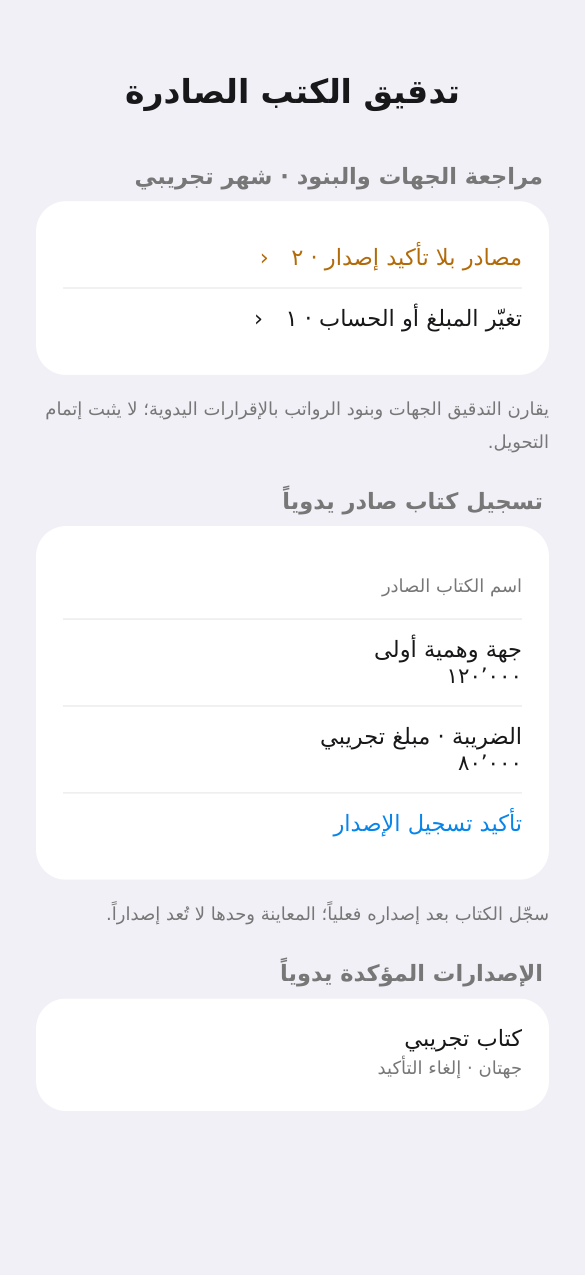
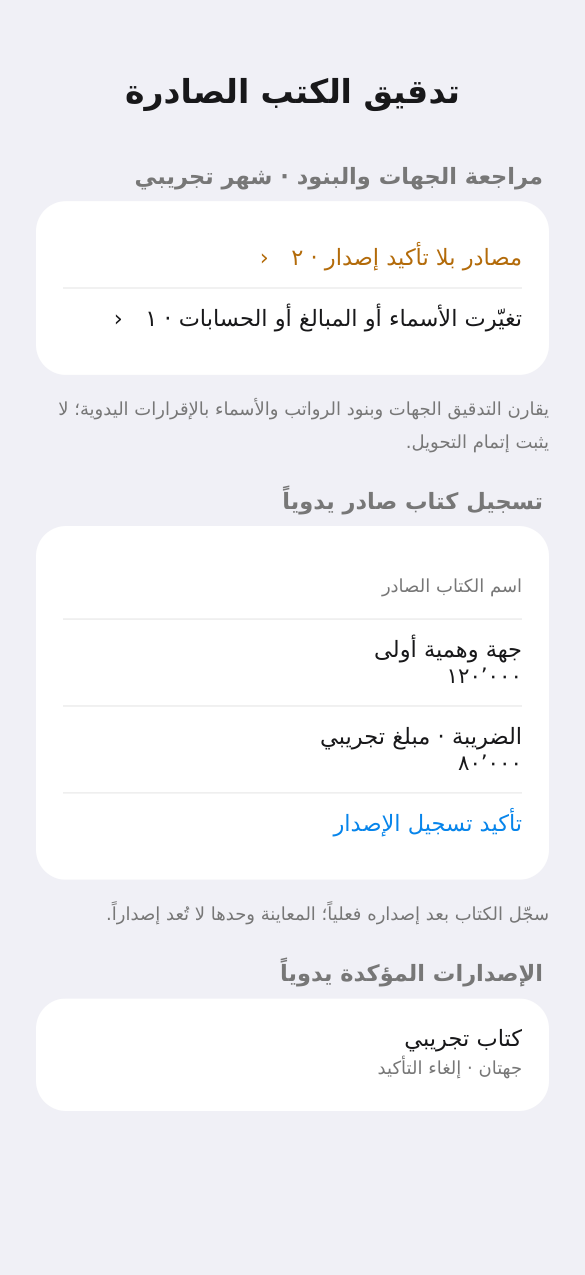
Detect changes in confirmed transfer name lists
Store a fingerprint of confirmed employee rows and compare it with the current data in a cancellable background task, including cash lists. Preserve old confirmations and flag those without a fingerprint.

diff --git a/SalaryApp/TransferIssuance.swift b/SalaryApp/TransferIssuance.swift
@@ -11,6 +11,8 @@ nonisolated struct TransferIssuedLine: Codable, Equatable, Identifiable {
     let branch: String
     let swift: String
     let category: String
+    /// اختيارية حتى تبقى الإقرارات المحفوظة قبل إضافة فحص الأسماء قابلة للقراءة.
+    var detailHash: String? = nil
 
     init(_ entity: TransferEntity) {
         id = entity.id
@@ -81,7 +83,11 @@ nonisolated enum TransferIssuance {
         let byRecorded = Dictionary(grouping: recorded, by: \.id)
         return Audit(
             missing: current.filter { byRecorded[$0.id] == nil },
-            changed: current.filter { line in byRecorded[line.id]?.contains(where: { $0 != line }) == true },
+            changed: current.filter { line in byRecorded[line.id]?.contains(where: { old in
+                var previous = old; previous.detailHash = nil
+                var now = line; now.detailHash = nil
+                return previous != now || (old.detailHash != nil && line.detailHash != nil && old.detailHash != line.detailHash)
+            }) == true },
             absent: recorded.filter { byCurrent[$0.id] == nil },
             repeated: current.filter { (byRecorded[$0.id]?.count ?? 0) > 1 })
     }
@@ -106,16 +112,84 @@ struct TransferIssuanceView: View {
     @State private var confirm = false
     @State private var retract: TransferIssuedRecord?
     @State private var error: String?
+    @State private var checkingDetails = false
+    @State private var detailError: String?
+    @State private var checkedHashes: [String: String] = [:]
+    @State private var detailsChecked = false
+    @State private var confirmationTask: Task<Void, Never>?
 
     private var current: Bool {
         let record = months.first { $0.name == month }
         return record != nil && currentAccounts == accounts && currentCategories == categories && currentLinks == links &&
             "\(String(describing: record?.persistentModelID))|\(record?.name ?? "")|\(record?.importedAt.timeIntervalSince1970 ?? 0)" == sourceKey
     }
+    private var cashID: String { "payroll|\(month)|cashSalary" }
     private var lines: [TransferIssuedLine] {
-        entities.filter { $0.group.total.isFinite && $0.group.total > 0 }.map(TransferIssuedLine.init) + TransferIssuance.payrollLines(figures)
+        (entities.filter { $0.group.total.isFinite && $0.group.total > 0 }.map(TransferIssuedLine.init) + TransferIssuance.payrollLines(figures)).map { value in
+            var line = value; line.detailHash = checkedHashes[line.id]; return line
+        }
     }
     private var ledger: TransferIssuance.Ledger? { try? TransferIssuance.decode(stored) }
+    private var nameListIDs: Set<String> {
+        Set(entities.filter { $0.payrollRecipient == nil }.map(\.id)).union([cashID])
+    }
+    private var hasOlderConfirmationsWithoutNames: Bool {
+        guard let ledger else { return false }
+        return ledger.records.filter { $0.month == month }.flatMap(\.lines)
+            .contains { $0.detailHash == nil && nameListIDs.contains($0.id) }
+    }
+    private func fetchDetails(_ ids: Set<String>) async throws -> [String: String] {
+        let container = SharedModel.container
+        let snapshot = entities, selectedMonth = month, cash = cashID, amount = figures.payrollCash
+        let work = Task.detached(priority: .utility) {
+            try await TransferIssuedDetails.load(entities: snapshot, ids: ids, month: selectedMonth,
+                cashID: cash, cashAmount: amount, container: container)
+        }
+        return try await withTaskCancellationHandler { try await work.value } onCancel: { work.cancel() }
+    }
+    private func refreshDetails() async {
+        guard current, let ledger else { return }
+        let ids = Set(ledger.records.filter { $0.month == month }.flatMap(\.lines)
+            .filter { $0.detailHash != nil }.map(\.id)).intersection(nameListIDs)
+        detailsChecked = false; checkedHashes = [:]; detailError = nil
+        guard !ids.isEmpty else { detailsChecked = true; return }
+        checkingDetails = true
+        defer { checkingDetails = false }
+        do {
+            let hashes = try await fetchDetails(ids)
+            guard !Task.isCancelled, current else { return }
+            checkedHashes = hashes
+            if !ids.isSubset(of: Set(hashes.keys)) {
+                detailError = tr("تعذر فحص بعض قوائم الأسماء؛ راجع المصادر الحالية.", "Some name lists could not be checked; review current sources.")
+            }
+            detailsChecked = true
+        } catch is CancellationError { return }
+        catch { guard !Task.isCancelled else { return }; detailError = error.localizedDescription }
+    }
+    private func confirmIssued() {
+        guard current, confirmationTask == nil, !checkingDetails else { return }
+        let ids = selected, title = book.trimmingCharacters(in: .whitespacesAndNewlines), storage = stored
+        let chosen = lines.filter { ids.contains($0.id) }
+        guard !title.isEmpty, !chosen.isEmpty, Set(chosen.map(\.id)).count == chosen.count else { return }
+        confirmationTask = Task {
+            defer { confirmationTask = nil }
+            do {
+                let required = ids.intersection(nameListIDs)
+                let hashes = try await fetchDetails(required)
+                guard !Task.isCancelled, current, storage == stored, ids == selected,
+                      required.isSubset(of: Set(hashes.keys)), let ledger else {
+                    if !Task.isCancelled { error = tr("تغيرت البيانات أثناء تدقيق الأسماء؛ أعد المحاولة.", "Data changed during name-list checking; try again.") }
+                    return
+                }
+                let verified = chosen.map { value -> TransferIssuedLine in
+                    var line = value; line.detailHash = hashes[line.id]; return line
+                }
+                let record = TransferIssuedRecord(id: UUID(), month: month, book: title, confirmedAt: .now, lines: verified)
+                if save(ledger.records + [record]) { selected = []; book = "" }
+            } catch is CancellationError { return }
+            catch { self.error = error.localizedDescription }
+        }
+    }
     @discardableResult private func save(_ records: [TransferIssuedRecord]) -> Bool {
         guard current, ledger != nil, !BackupManager.shared.isWorking, !ImportCenter.shared.isBusy, !StaffImportState.shared.isImporting else {
             error = tr("تغيرت البيانات أو توجد عملية استيراد أو نسخ جارية. أعد فتح الصفحة وحاول مجدداً.", "Data changed or another operation is in progress. Reopen this page and try again.")
@@ -135,10 +209,15 @@ struct TransferIssuanceView: View {
                 let audit = TransferIssuance.audit(current: lines, records: ledger.records, month: month)
                 Section(tr("مراجعة الجهات والبنود · \(month)", "Entity and item review · \(month)")) {
                     issueGroup(tr("مصادر بلا تأكيد إصدار", "Items without issuance confirmation"), audit.missing, .orange)
-                    issueGroup(tr("تغيّر المبلغ أو العدد أو الحساب بعد التأكيد", "Amount, count or account changed after confirmation"), audit.changed, .red)
+                    issueGroup(tr("تغيّرت الأسماء أو المبالغ أو الحسابات بعد التأكيد", "Names, amounts or accounts changed after confirmation"), audit.changed, .red)
                     issueGroup(tr("مصادر مؤكدة غير متاحة في بيانات الشهر", "Confirmed items unavailable in current data"), audit.absent, .orange)
                     issueGroup(tr("جهات مؤكدة في أكثر من كتاب", "Entities confirmed in multiple letters"), audit.repeated, .red)
-                    if audit.missing.isEmpty && audit.changed.isEmpty && audit.absent.isEmpty && audit.repeated.isEmpty {
+                    if checkingDetails { ProgressView(tr("تدقيق قوائم الأسماء", "Checking name lists")) }
+                    if let detailError { Text(detailError).foregroundStyle(.orange) }
+                    if hasOlderConfirmationsWithoutNames {
+                        Text(tr("بعض الإقرارات السابقة لم تحفظ بصمة قائمة الأسماء؛ راجع كتابها وأعد تأكيده عند الحاجة.", "Some older confirmations have no name-list fingerprint; review and reconfirm if needed.")).font(.footnote).foregroundStyle(.orange)
+                    }
+                    if detailsChecked && detailError == nil && audit.missing.isEmpty && audit.changed.isEmpty && audit.absent.isEmpty && audit.repeated.isEmpty {
                         Text(tr("لا توجد اختلافات في الإقرارات المسجلة.", "No differences in recorded confirmations.")).foregroundStyle(.secondary)
                     }
                 } footer: { Text(tr("يقارن التدقيق الجهات وبنود الكتب بإقراراتك اليدوية. لا يقرأ الكتب الصادرة أو يثبت التحويل. قد يظهر بند الكاش غير متاح إذا تعذر تحديد طريقة الدفع.", "This compares entities and letter items with manual confirmations. It does not read issued letters or prove a transfer. Cash may be unavailable if payment methods cannot be determined.")) }
@@ -153,7 +232,8 @@ struct TransferIssuanceView: View {
                         }
                     }
                     Button(tr("تأكيد تسجيل الإصدار", "Confirm issued letter")) { confirm = true }
-                        .disabled(!current || selected.isEmpty || book.trimmingCharacters(in: .whitespacesAndNewlines).isEmpty)
+                        .disabled(!current || checkingDetails || confirmationTask != nil || selected.isEmpty || book.trimmingCharacters(in: .whitespacesAndNewlines).isEmpty)
+                    if confirmationTask != nil { ProgressView(tr("تدقيق قوائم الأسماء", "Checking name lists")) }
                 } footer: { Text(tr("بعد إصدار الكتاب فعلياً، اختر الجهات أو بنود الرواتب التي يتضمنها. المعاينة وحدها لا تُعد إصداراً.", "After issuing the letter, select the entities or payroll items it contains. A preview is not issuance.")) }
                 let records = ledger.records.filter { $0.month == month }.sorted { $0.confirmedAt > $1.confirmedAt }
                 if !records.isEmpty {
@@ -176,14 +256,10 @@ struct TransferIssuanceView: View {
         .navigationTitle(tr("تدقيق الكتب الصادرة", "Issued letter review"))
         .alert(tr("تأكيد إصدار الكتاب؟", "Confirm letter issued?"), isPresented: $confirm) {
             Button(tr("تأكيد الإصدار", "Confirm issuance")) {
-                guard let ledger, current else { return }
-                let chosen = lines.filter { selected.contains($0.id) }
-                guard !chosen.isEmpty, Set(chosen.map(\.id)).count == chosen.count else { return }
-                let record = TransferIssuedRecord(id: UUID(), month: month, book: book.trimmingCharacters(in: .whitespacesAndNewlines), confirmedAt: .now, lines: chosen)
-                if save(ledger.records + [record]) { selected = []; book = "" }
+                confirmIssued()
             }
             Button(tr("إلغاء", "Cancel"), role: .cancel) { }
-        } message: { Text(tr("أؤكد أنني أصدرت الكتاب فعلياً وأن الجهات والبنود المختارة وردت فيه بالمبالغ المعروضة. لا يتحقق التطبيق من الكتاب أو المصرف بهذا الإقرار.", "I confirm that I issued this letter and it contains the selected entities and items with their amounts. This confirmation does not verify the document or the bank.")) }
+        } message: { Text(tr("أؤكد أنني أصدرت الكتاب فعلياً وأن الجهات والبنود المختارة وردت فيه بالمبالغ والأسماء الصحيحة. لا يتحقق التطبيق من الكتاب أو المصرف بهذا الإقرار.", "I confirm that I issued this letter and it contains the selected entities and items with their correct amounts and names. This confirmation does not verify the document or the bank.")) }
         .alert(tr("إلغاء تأكيد الإصدار؟", "Retract issuance confirmation?"), isPresented: Binding(get: { retract != nil }, set: { if !$0 { retract = nil } })) {
             Button(tr("إلغاء التأكيد", "Retract"), role: .destructive) {
                 if let id = retract?.id, let ledger { save(ledger.records.filter { $0.id != id }) }
@@ -191,6 +267,8 @@ struct TransferIssuanceView: View {
             }
             Button(tr("رجوع", "Back"), role: .cancel) { retract = nil }
         } message: { Text(tr("يُحذف الإقرار فقط، ولا يُحذف الكتاب أو بيانات الشهر.", "Only the confirmation is removed; the letter and monthly data are unchanged.")) }
+        .task(id: stored) { await refreshDetails() }
+        .onDisappear { confirmationTask?.cancel(); confirmationTask = nil }
     }
     @ViewBuilder private func issueGroup(_ title: String, _ values: [TransferIssuedLine], _ color: Color) -> some View {
         if !values.isEmpty {

diff --git a/SalaryApp/TransferIssuedDetails.swift b/SalaryApp/TransferIssuedDetails.swift
@@ -1,0 +1,35 @@
+import Foundation
+import SwiftData
+import CryptoKit
+
+/// بصمة للصفوف فقط، مع الاحتفاظ بالتكرار، ولا تخزّن أسماء الموظفين في سجل الإقرارات.
+nonisolated enum TransferIssuedDetails {
+    enum Failure: LocalizedError {
+        case mismatch
+        var errorDescription: String? { tr("تعذّر مطابقة قائمة الأسماء مع بيانات الشهر؛ راجع المصدر قبل التأكيد.", "Could not reconcile the name list with the month data; review the source before confirming.") }
+    }
+    static func fingerprint(_ rows: [[String]]) throws -> String {
+        let values = try rows.map { row in String(decoding: try JSONEncoder().encode(row), as: UTF8.self) }.sorted()
+        let data = try JSONEncoder().encode(values)
+        return Data(SHA256.hash(data: data)).base64EncodedString()
+    }
+    static func load(entities: [TransferEntity], ids: Set<String>, month: String,
+                     cashID: String, cashAmount: Double?, container: ModelContainer) async throws -> [String: String] {
+        let engine = ReportEngine(modelContainer: container)
+        var results: [String: String] = [:]
+        for entity in entities where ids.contains(entity.id) && entity.payrollRecipient == nil {
+            try Task.checkCancellation()
+            let rows = try await engine.rows(for: entity.group)
+            _ = try TransferIndividualPlan(kind: .ramadi, group: entity.group, rows: rows, missingAmounts: entity.missingAmounts)
+            let details = rows.map { [$0.name, $0.rank, $0.workplace, String(format: "%.0f", locale: Locale(identifier: "en_US_POSIX"), $0.amount)] }
+            results[entity.id] = try fingerprint(details)
+        }
+        if ids.contains(cashID) {
+            guard let cashAmount else { throw Failure.mismatch }
+            let list = try await TransferCashListEngine(modelContainer: container).list(month: month)
+            guard list.month == month, list.total == cashAmount else { throw Failure.mismatch }
+            results[cashID] = try fingerprint(list.employees.map { [$0.name, $0.rank, $0.workplace, String(format: "%.0f", locale: Locale(identifier: "en_US_POSIX"), $0.amount)] })
+        }
+        return results
+    }
+}

diff --git a/SalaryApp/TransferFilesSelfTest.swift b/SalaryApp/TransferFilesSelfTest.swift
@@ -52,6 +52,16 @@ import CryptoKit
         let group = ReportGroup(kind: .deductions, month: "تشرين الاول 2026", title: "جهة وهمية", count: 1, total: 1200, byEntity: false)
         let item = TransferEntity(group: group, account: account, category: .rafidain, missingAmounts: 0)
         let issuedLine = TransferIssuedLine(item)
+        let namesA = [["موظف وهمي أ", "رتبة", "قسم", "600"], ["موظف وهمي ب", "رتبة", "قسم", "600"]]
+        let namesB = [["موظف وهمي أ", "رتبة", "قسم", "600"], ["موظف وهمي ج", "رتبة", "قسم", "600"]]
+        let hashA = try TransferIssuedDetails.fingerprint(namesA)
+        try check(hashA == TransferIssuedDetails.fingerprint(namesA.reversed().map { $0 }), "name fingerprint must ignore order")
+        try check(hashA != TransferIssuedDetails.fingerprint(namesB), "name substitution must change fingerprint")
+        var namedLine = issuedLine; namedLine.detailHash = hashA
+        var changedNames = issuedLine; changedNames.detailHash = try TransferIssuedDetails.fingerprint(namesB)
+        let namedRecord = TransferIssuedRecord(id: UUID(), month: group.month, book: "كتاب وهمي", confirmedAt: .now, lines: [namedLine])
+        try check(TransferIssuance.audit(current: [changedNames], records: [namedRecord], month: group.month).changed.count == 1, "changed names after confirmation")
+        try check(TransferIssuance.audit(current: [issuedLine], records: [namedRecord], month: group.month).changed.isEmpty, "unread name list must not be a false mismatch")
         let issuedRecord = TransferIssuedRecord(id: UUID(), month: group.month, book: "كتاب وهمي", confirmedAt: .now, lines: [issuedLine])
         let ledgerBytes = try JSONEncoder().encode(TransferIssuance.Ledger(records: [issuedRecord]))
         let restoredLedger = try TransferIssuance.decode(ledgerBytes)

diff --git a/AGENTS.md b/AGENTS.md
@@ -184,7 +184,7 @@
 - في معاينات الكتب المنفردة تُراجع قيود الجهة مع مجموعها وعدد أشخاصها، ويظهر تنبيه إذا اختلف العدد عن الشهر السابق المباشر حين تتوفر استقطاعاته؛ تغير بيانات الشهر السابق أثناء التحضير يوقف المعاينة. تنبيهات الجهات بلا كتب ومطابقة محتوى PDF النهائية لم تكتمل بعد.
 - `TransferArchiveCoverage` يعرض جهات فرع الأنبار بلا ملف موجود في أرشيف الشهر مرتبط باسم الجهة، ويذكر أن ذلك لا يثبت عدم صدور الكتاب أو صحة مبلغه. فشل قراءة الأرشيف يظهر منفصلاً؛ لا تُعامل بيانات الفهرس على أنها إثبات لإصدار كتاب التحويل أو مطابقته.
 - `TransferDraftCoverage` يحتفظ في الذاكرة فقط بالجهات التي جُهزت لها معاينات للجلسة، وينبه إلى الجهات المصنفة دون معاينة وإلى المصدر الذي ظهر في أكثر من نوع كتاب. السجل مرتبط بلقطة الشهر والحسابات والتخصيص والمراجع ويُحذف عند تغيرها؛ لا يدل على إصدار كتاب ولا يدخل في النسخ الاحتياطية.
-- `TransferIssuance` يحفظ إقراراً يدوياً صريحاً بعد إصدار كتاب خارج التطبيق، مع لقطة جهاته ومبالغها وعددها وحساباتها وبنود الرواتب المنفردة، ويقارنها ببيانات الشهر وينبه للمصادر دون إقرار والتغير والتكرار والحذف. يُفصل بندا الضريبة والحماية الاجتماعية وبندا ضمان العقود كي يُكتشف تغير كل جزء؛ قد يظهر الكاش غير متاح عند تعذّر تحديد طريقة الدفع. يدخل السجل النسخة الاحتياطية؛ لا يفحص محتوى الكتاب الصادر أو يؤكد استلام المصرف، ولا يحوّل المعاينة إلى إصدار. لا يتتبع السجل أسماء الأفراد المؤكدين سابقاً؛ وإلغاء الإقرار لا يحذف الكتاب. لم يُختبر المسار على الآيفون.
+- `TransferIssuance` يحفظ إقراراً يدوياً صريحاً بعد إصدار كتاب خارج التطبيق، مع لقطة جهاته ومبالغها وعددها وحساباتها وبنود الرواتب المنفردة، ويقارنها ببيانات الشهر وينبه للمصادر دون إقرار والتغير والتكرار والحذف. تفحص `TransferIssuedDetails` في الخلفية بصمة الأسماء والرتب ومواقع العمل ومبالغ القيود أو قائمة الكاش عند التأكيد وعند فتح التدقيق، مع حفظ البصمة لا الأسماء؛ الإقرارات القديمة دون بصمة تظهر كمحتاجة مراجعة. يُفصل بندا الضريبة والحماية الاجتماعية وبندا ضمان العقود كي يُكتشف تغير كل جزء؛ قد يظهر الكاش غير متاح عند تعذّر تحديد طريقة الدفع. يدخل السجل النسخة الاحتياطية؛ لا يفحص محتوى الكتاب الصادر أو يؤكد استلام المصرف، ولا يحوّل المعاينة إلى إصدار. إلغاء الإقرار لا يحذف الكتاب. لم يُختبر المسار على الآيفون.
 - `TransferPDFOverlay` يتحقق من المبالغ المكتوبة في معاينات صفحات الكتب وحقول الاسم والرتبة في الموارد المائية بقراءتها من PDF؛ تتوقف المعاينة إذا فشلت القراءة أو اختلفت. يفحص `TransferPDFPageProof` النص وعدد الصفحات بعد جمع كتاب المجموعة وقائمة الكاش، دون ادعاء مطابقة بصرية. `TransferGroupLetter` يقارن مصادر الشهر مع المبالغ المقروءة من جدول PDF وCSV بعد كتابتهما؛ لم تختبر هذه الضوابط على الآيفون أو يُتح تصدير الكتب الجديدة.
 - أرقام الشهر في الكتب المنفردة تستخدم خط Sakkal Majalla Bold الخاص الذي يختاره المستخدم إذا اتسع في الموضع، وتستخدم صور أرقام المرجع عند عدم توفره أو عدم اتساع العرض الاسمي. لا يُغيّر خط كتب المجموعات؛ لم يُتحقق من المخرجات على الآيفون.
 - تصدير CSV يرفض تكرار مصدر التحويل أو اختلاف شهر أي مصدر عن شهر الملف، ويتوقف إن تغيرت بيانات الجهة الدافعة بعد فتح صفحة المجموعة. مدقق المطابقة يسجل فقدان الكتاب والملف معاً إن غابا؛ لم يُربط بواجهة الكتب بعد.
